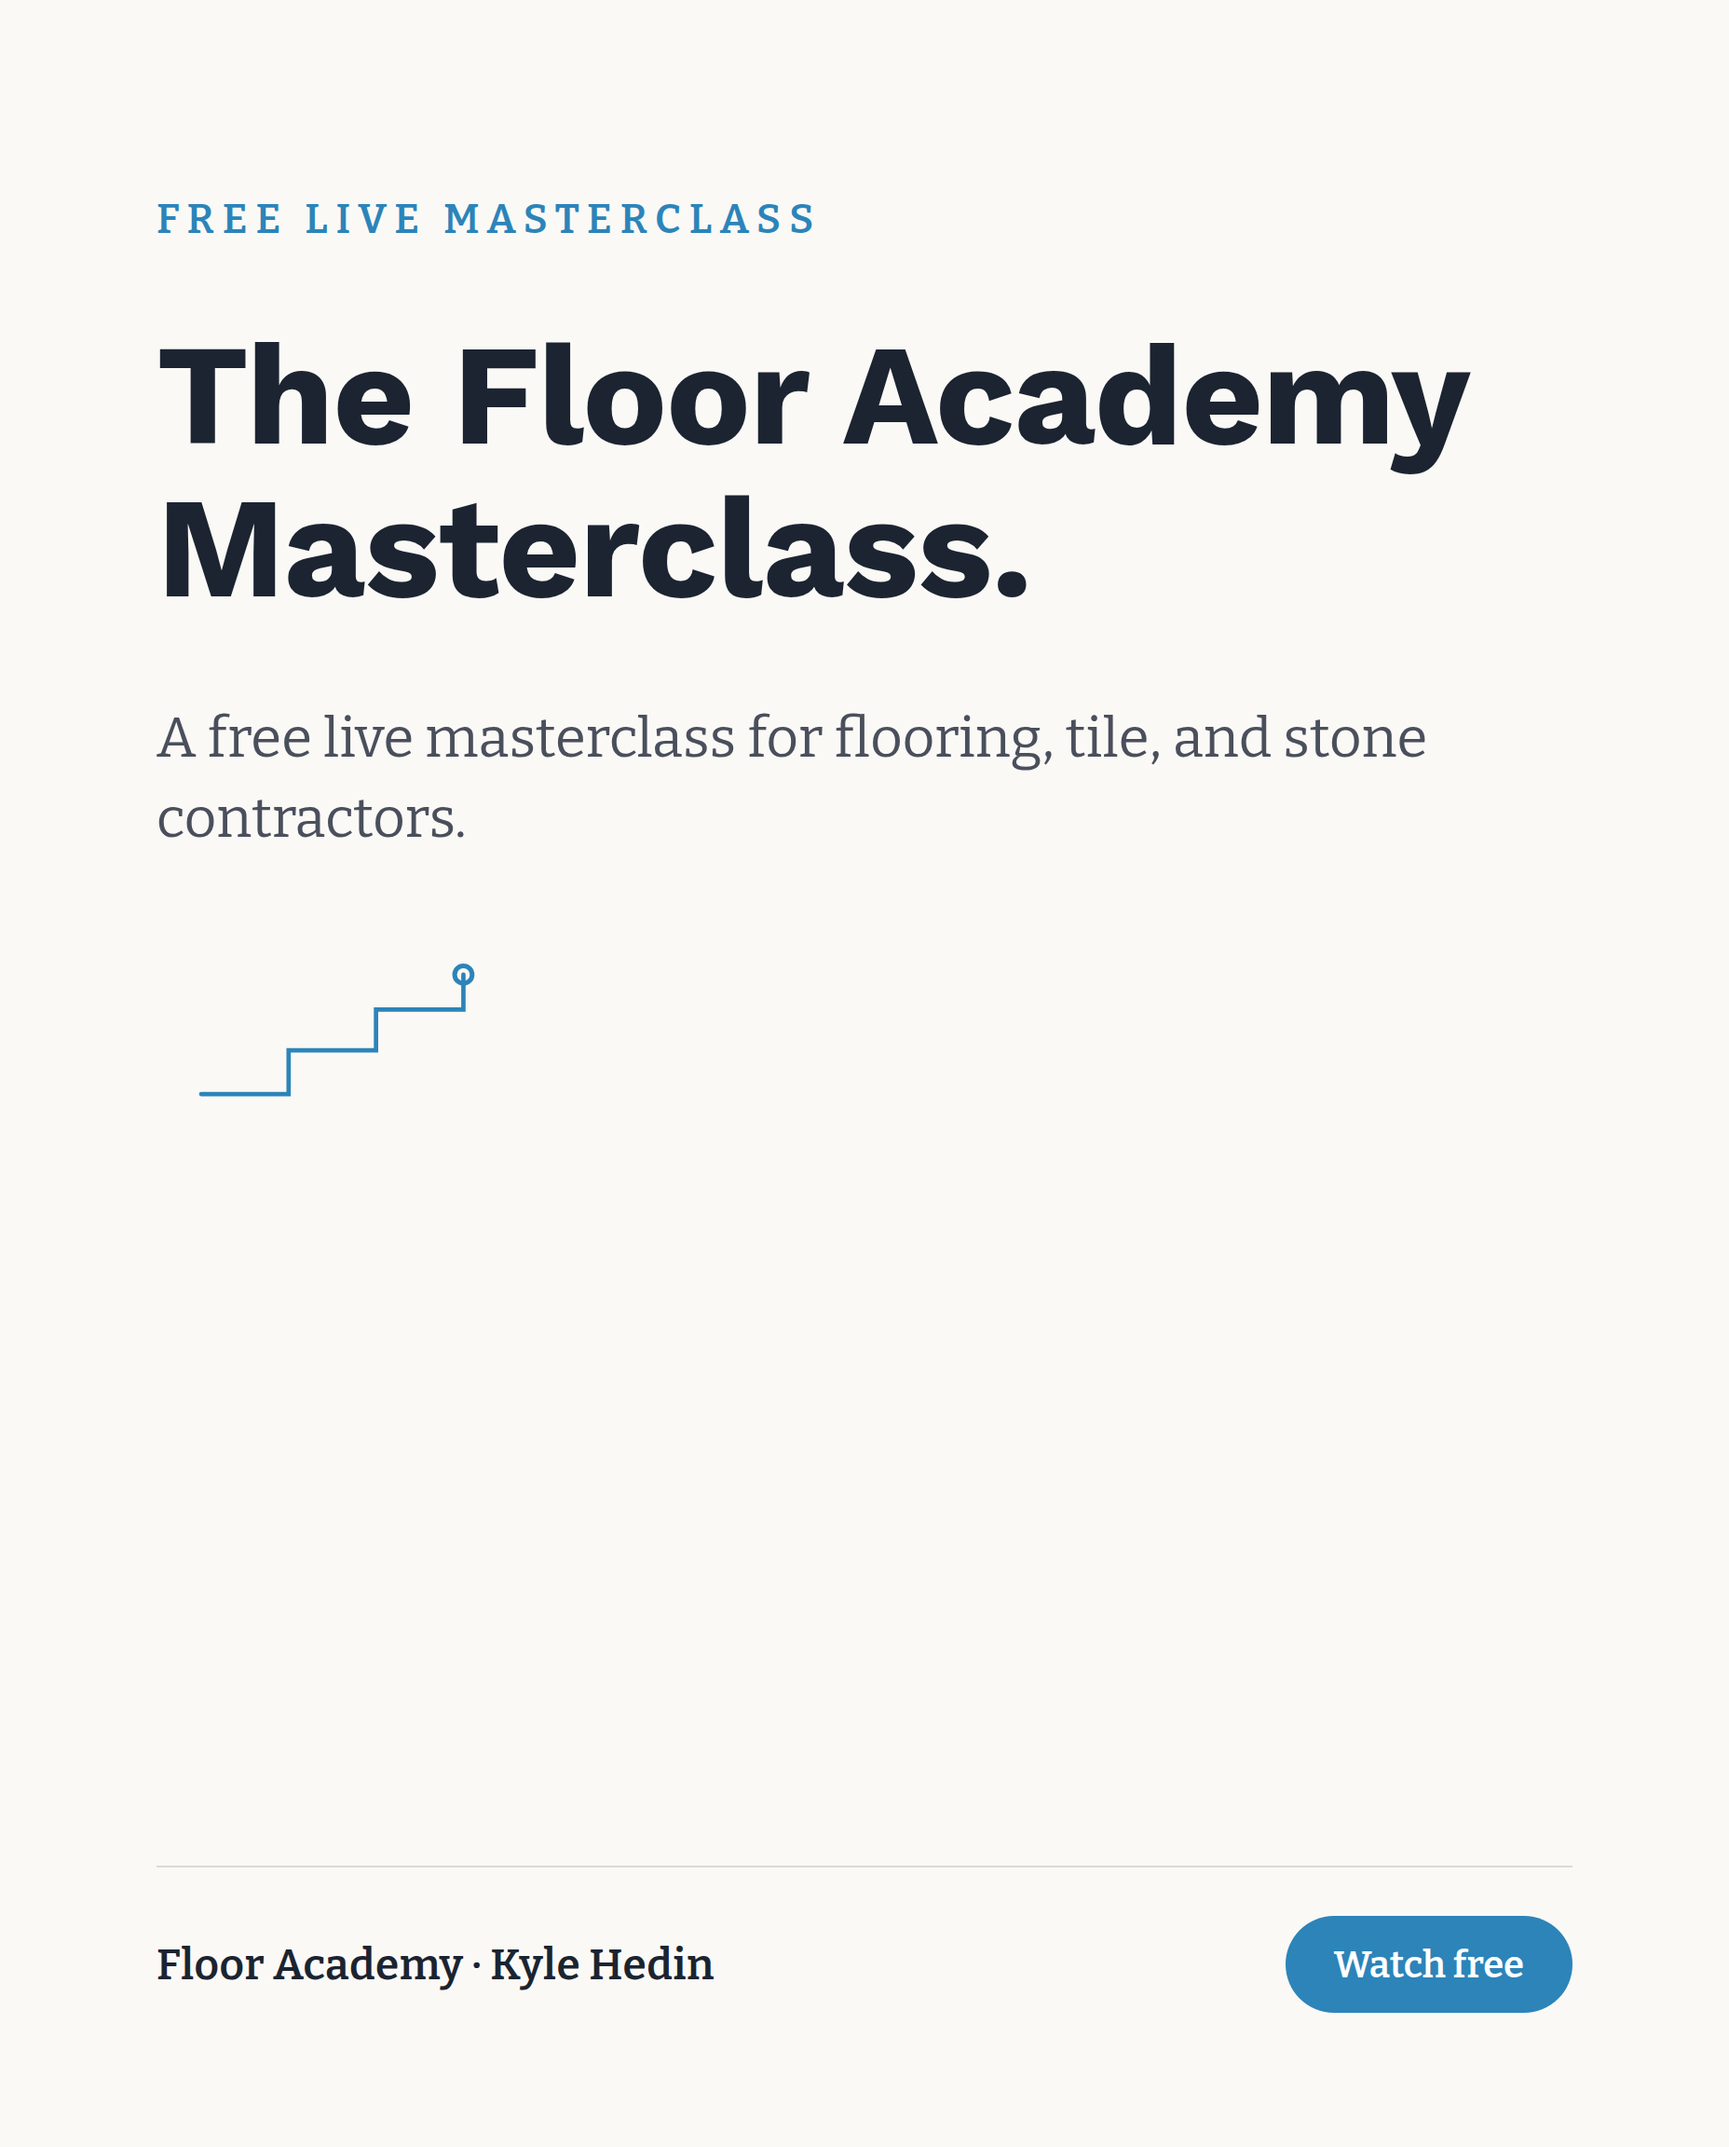
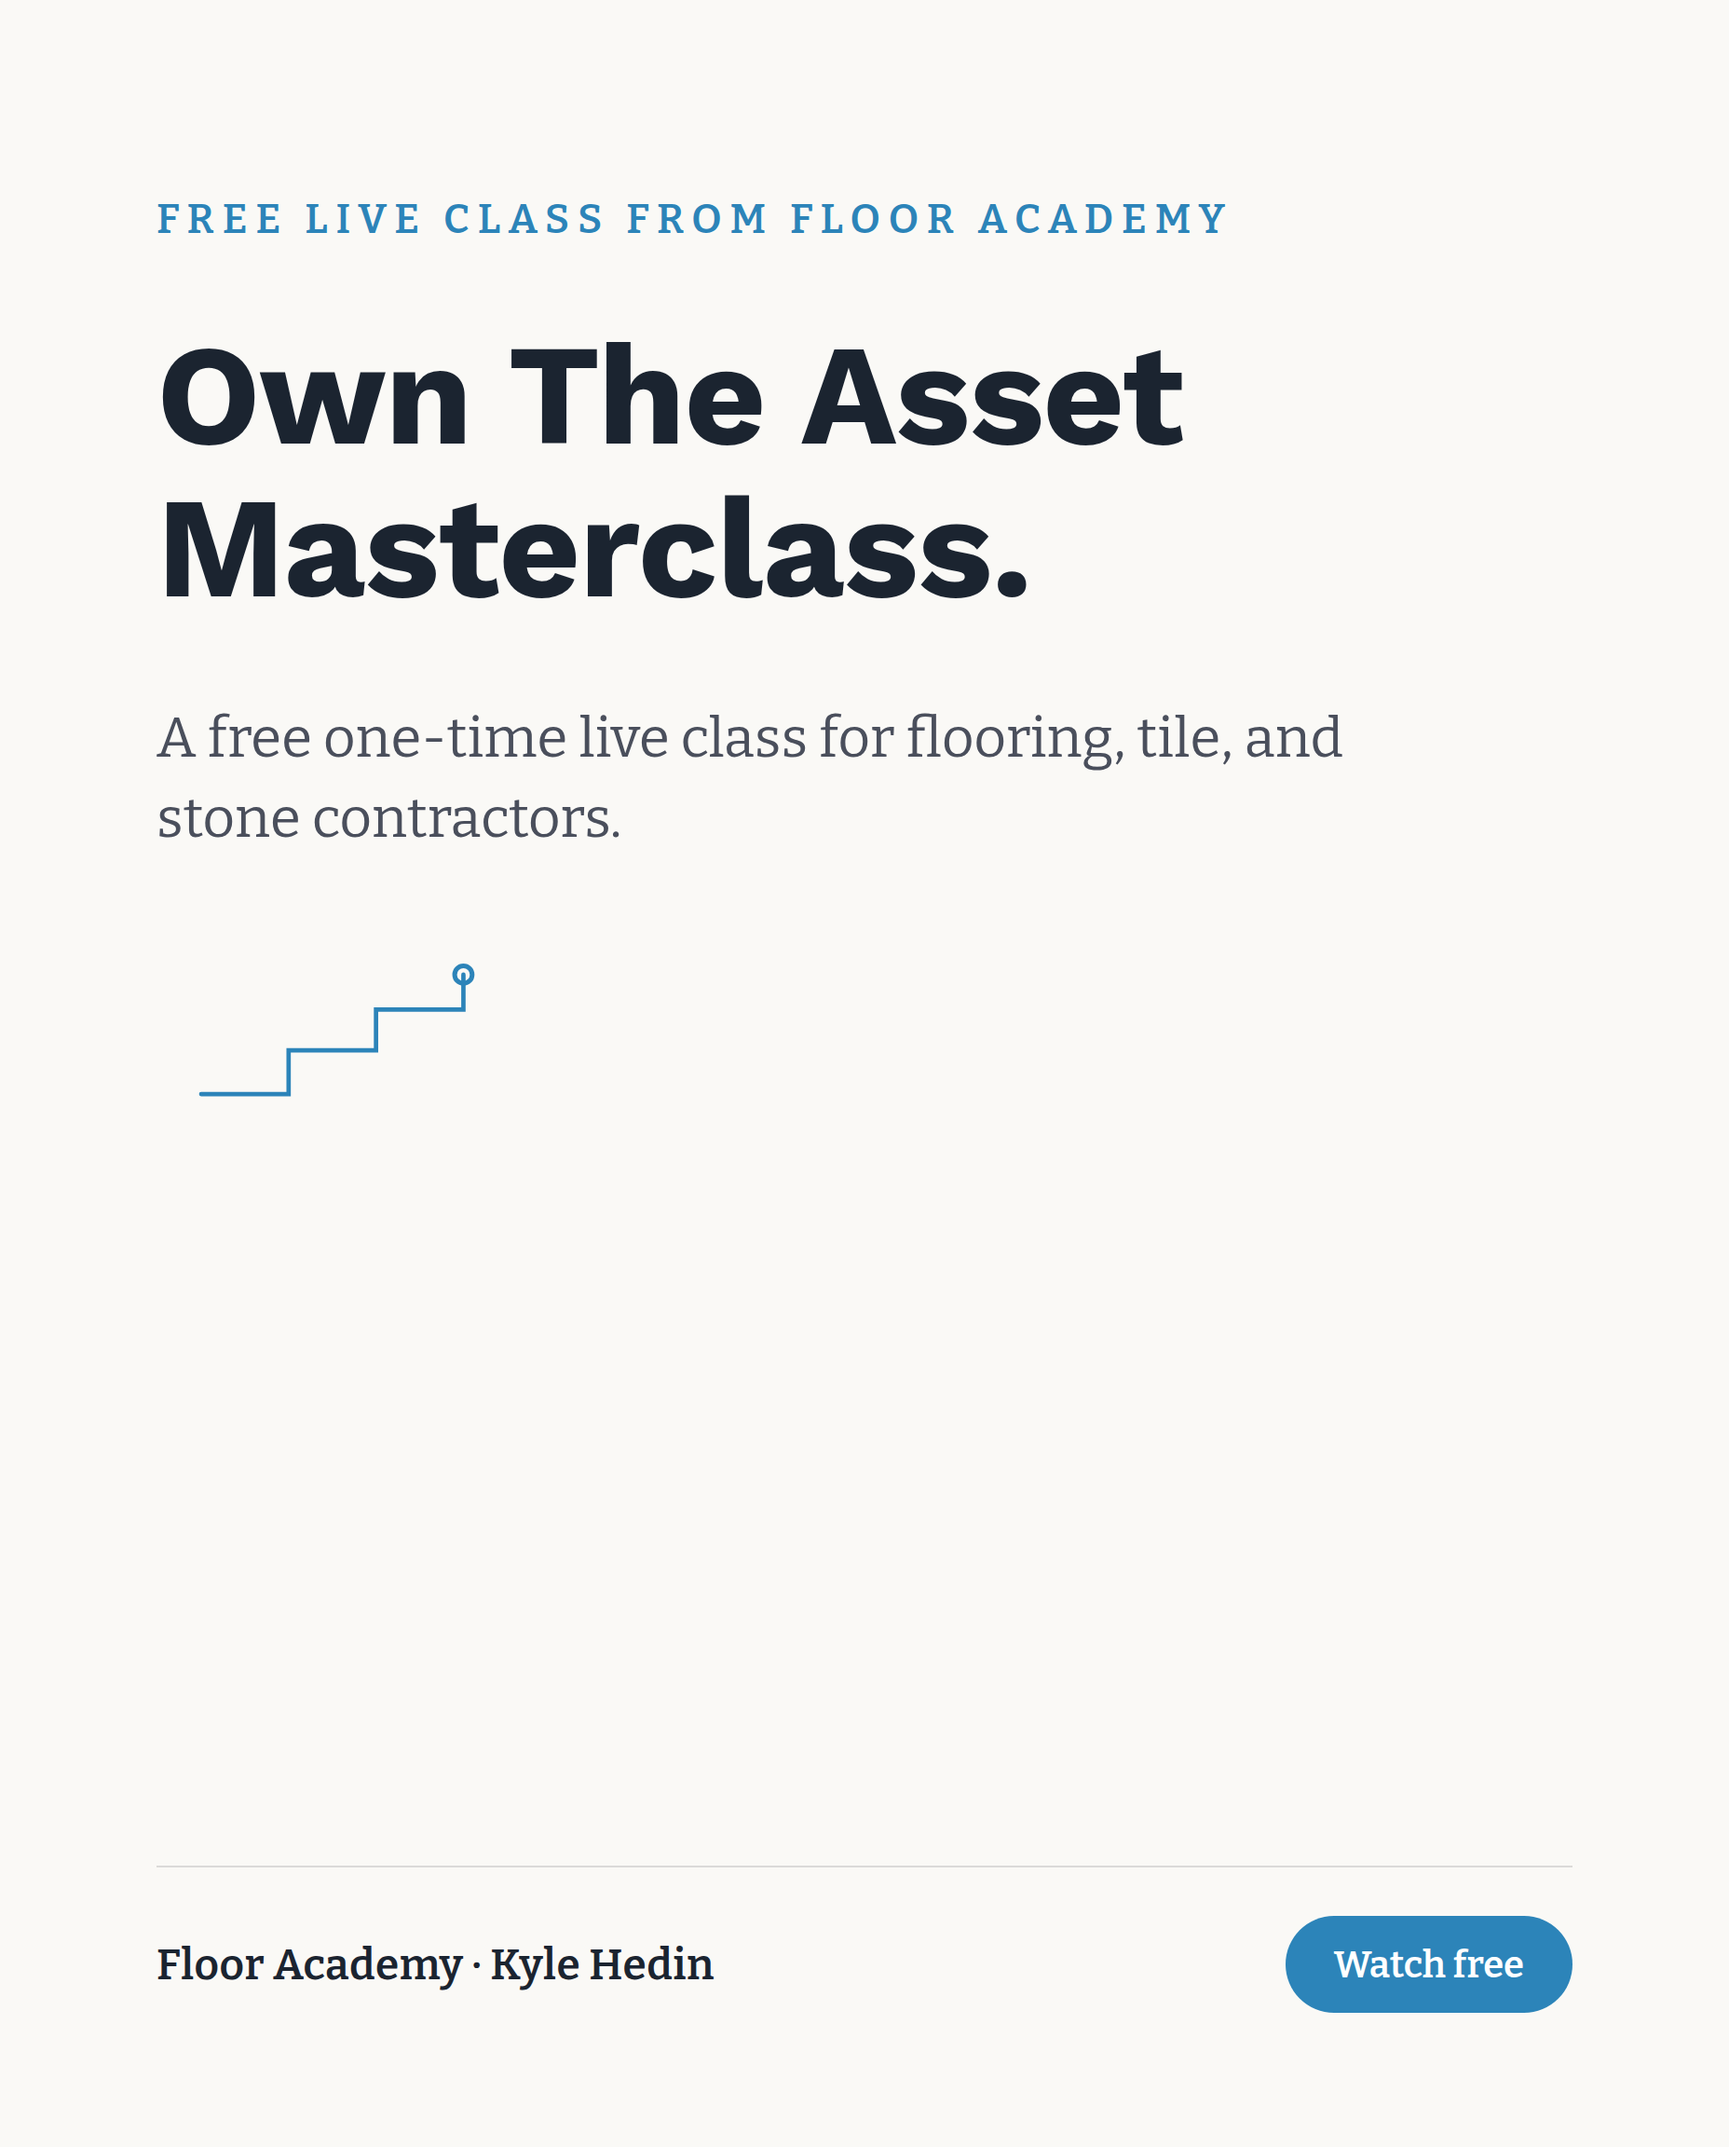
showcase: kyle-hedin

diff --git a/kyle-hedin/index.html b/kyle-hedin/index.html
@@ -73,7 +73,7 @@
   </div>
 
   <h1>Own The Asset, Not Just The Job</h1>
-  <p class="framing">Here is what I mentioned in my email: the masterclass, the numbers, and the auction data that did not fit in the message. You already built the hard part: the Saturday Masterclass, the Mastermind, and five years of the podcast. What you don't have is a system to bring in flooring, tile, and stone contractors who have never heard of you and convert them into Masterclass or Mastermind customers. This is that system.</p>
+  <p class="framing">Here is what I mentioned in my email: the masterclass, the numbers, and the auction data that did not fit in the message. You already built the hard part: the Saturday Masterclass, the Mastermind, and seven years of the podcast. What you don't have is a system to bring in flooring, tile, and stone contractors who have never heard of you and convert them into Masterclass or Mastermind customers. This is that system.</p>
 
   <div class="section">
     <div class="section-label">The masterclass, already built</div>
@@ -89,7 +89,7 @@
       <img src="/kyle-hedin/ad01.png" alt="Ad concept: Own the asset, not just the job">
       <img src="/kyle-hedin/ad02.png" alt="Ad concept: Stop bidding every job">
       <img src="/kyle-hedin/ad03.png" alt="Ad concept: Built from the field, not theory">
-      <img src="/kyle-hedin/ad04.png" alt="Ad concept: The Floor Academy Masterclass invitation">
+      <img src="/kyle-hedin/ad04.png" alt="Ad concept: Own The Asset Masterclass invitation">
     </div>
   </div>
 

diff --git a/kyle-hedin/deck.html b/kyle-hedin/deck.html
@@ -99,7 +99,7 @@ const S = [
  {t:'dark',title:'None of this makes you a bigger craftsman. All of it makes you a real owner.'},
 
  {t:'section',idx:'Part Three',title:'Inside A Small Flooring Shop'},
- {t:'normal',k:'What owners report back',title:'The changes are specific, not vague motivation.',body:'One flooring business owner in this exact room, after rebuilding SOPs and performance pay, reported his revenue up 28% and net profit up 168% year over year, and paid his field technicians an extra $55,000 in bonuses on top of their hourly rate. His numbers, his own account.'},
+ {t:'normal',k:'What members say',title:'Past Mastermind members call it accountability that actually sticks.',body:'Not a pep talk. A room of other flooring owners asking why a change has not happened yet, and helping you fix the SOPs, the pay structure, or the pricing that is actually in the way. Some past members have called it business therapy for entrepreneurs.'},
  {t:'normal',k:'Why Kyle Hedin',title:'He apprenticed his way in, then built the room he wished existed.',body:'Kyle cold-called thirty contractors in 2015 asking for an apprenticeship, and was running his own flooring business by September 2017. In 2019 he started Floor Academy to help craftsmen stop playing contractor and start becoming businessmen, and he has interviewed hundreds of flooring, tile, and stone contractors on the podcast since.'},
 
  {t:'section',idx:'Your Next Step',title:'Bring This Into Your Business'},
